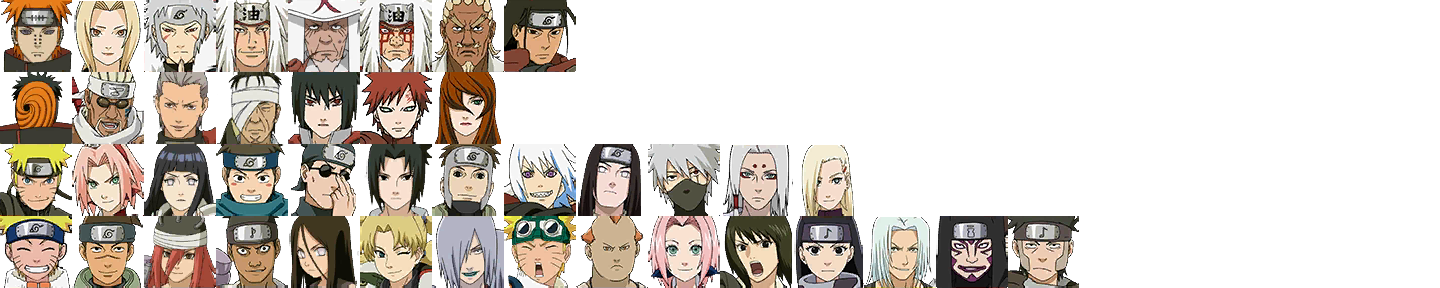
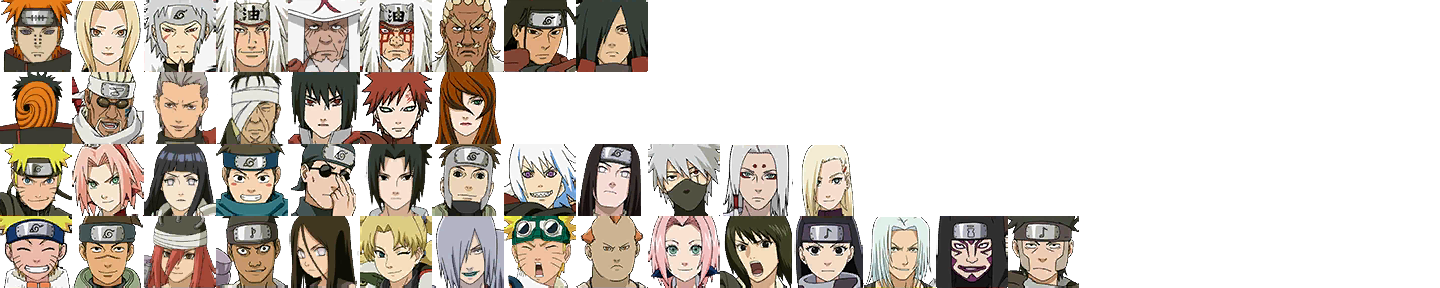
日更

Changed region(s): [[0.375, 0.0, 0.4688, 0.25]]

diff --git a/index.html b/index.html
@@ -3,9 +3,9 @@
 <html class="gray0">
 	<head>
 		<meta http-equiv="Content-Type" content="text/html; charset=UTF-8">
-		<title>高级招募模拟器-火影忍者手游</title>
+		<title>🐼高级招募模拟器-火影忍者手游</title>
 		<meta name="description" content="金币有限，高招看脸，究竟是欧皇？还是非酋？高级招募模拟器了解一下">
-		<meta name="keywords" content="火影忍者,手游,高级招募,欧皇,非酋,十连抽,高级招募模拟器,高招模拟器,模拟器,火影忍者高招模拟器,火影手游高招模拟器,火影高级招募模拟,火影抽卡模拟器" />
+		<meta name="keywords" content="火影忍者,手游,高级招募,欧皇,非酋,十连抽,高级招募模拟器,高招模拟器,模拟器,火影忍者高招模拟器,火影手游高招模拟器,火影高级招募模拟,火影手游模拟高招,火影抽卡模拟器,火影手游抽奖模拟,火影抽奖,火影手游抽奖" />
 		<meta itemprop="image" content="images/juanzhou_gaoji.png" />
 		<meta name="author" content="某熊" />
 		<meta http-equiv="pragma" content="no-cache">
@@ -17,7 +17,7 @@
 		<script type="text/javascript" src="js/jquery1.111.min.js"></script>
 		<script type="text/javascript" src="js/fastclick.js"></script>
 		<link rel="stylesheet" type="text/css" href="css/animate.min.css">
-		<link rel="stylesheet" type="text/css" href="css/style.css?v=111901">
+		<link rel="stylesheet" type="text/css" href="css/style.css?v=122601">
 		<script type="text/javascript" src="js/preload.js?v=111603"></script>
 	</head>
 
@@ -129,8 +129,8 @@
 					</dl>
 				</div>
 				<!--<p class="mb10">累计获得</p>-->
-                <!-- <p class="mb20"><em class="icon icon_s_new"><em class="img"></em><em class="fg"></em></em> × <span id="num_s_new">0</span></p> -->
-                <p class="mb20"><em class="icon icon_a_new"><em class="img"></em><em class="fg"></em></em> × <span id="num_a_new">0</span></p>
+                <p class="mb20"><em class="icon icon_s_new"><em class="img"></em><em class="fg"></em></em> × <span id="num_s_new">0</span></p>
+                <!-- <p class="mb20"><em class="icon icon_a_new"><em class="img"></em><em class="fg"></em></em> × <span id="num_a_new">0</span></p> -->
 				<p class="mb10"><i class="icon icon_s"></i>碎片：<span id="num_s">0</span></p>
 				<p class="mb10"><i class="icon icon_a"></i>碎片：<span id="num_a">0</span></p>
 				<p class="mb10"><i class="icon icon_b"></i>碎片：<span id="num_b">0</span></p>
@@ -146,8 +146,8 @@
 		<div class="thebtns thebtns_01">
         	<div class="btn btn_info ease1"><i class="icon icon_info"></i></div>
             <div class="btn btn_setting ease1"><i class="icon icon_setting"></i></div>
-            <!-- <div class="btn btn_baoxiang ease1 animated tada infinite"><i class="icon icon_baoxiang"></i><span class="txt">S首付奖励</span></div> -->
-			<div class="btn btn_baoxiang_a ease1 animated tada infinite"><i class="icon icon_baoxiang"></i><span class="txt">A首付奖励</span></div>
+            <div class="btn btn_baoxiang ease1 animated tada infinite"><i class="icon icon_baoxiang"></i><span class="txt">S首付奖励</span></div>
+			<!-- <div class="btn btn_baoxiang_a ease1 animated tada infinite"><i class="icon icon_baoxiang"></i><span class="txt">A首付奖励</span></div> -->
         </div>
 <!-- 右上角图标容器 第2列 -->
         <div class="thebtns thebtns_02">
@@ -158,23 +158,19 @@
 <!-- 弹窗遮罩 -->
 <div class="pop_mask"></div>
 <!-- 重要通知 -->
-		<div class="pop pop_big pop_notice animated zoomIn on">
+		<div class="pop pop_big pop_notice animated zoomIn">
 			<div class="title"><img class="title_bg" src="images/title_bg.png"><img class="title_txt" src="images/title_notice.png" alt="公告"></div>
 			<div class="text_wrap">
 				<div class="text_body">
 					<p><font color="#e94130"></font><font color="#6bd675"></font><!-- <i class="biaoqing biaoqing_07"></i> --></p>
-					<p>周末来啦，水影也来啦！再更新一波！</p>
+					<p></p>
 					<p><br></p>
 					<p><font color="#e94130">更新内容</font></p>
-					<p>1、音效开启！手机、电脑均已支持音效，可以在设置面板中开启或关闭</p>
-					<p>2、上架照美冥[五代目水影]、君麻吕、鬼童丸；下架宇智波佐助[万花筒写轮眼]、大和、漩涡鸣人[忍者学员]</p>
-					<p>3、如果集齐照美冥碎片会有小彩蛋</p>
+					<p>S级忍者碎片更新为宇智波斑！</p>
+					<p></p>
 					<p><br></p>
-                    <p>其他说明</p>
-                    <p>问卷调查已经关闭了，大家如果还有槽想吐，就来<a href="javascript:void(0);" class="jump_gzh" style="color: #e94130;" title="公众号">我的公众号</a>或者<a href="http://weibo.com/rune2010" style="color:#e94130;" title="微博" target="_blank">微博</a>吧！<i class="biaoqing biaoqing_07"></i></p>
-                    <p><br></p>
 					<p style="text-align: right;"><a href="http://weibo.com/rune2010" style="color:#111;" target="_blank">爱火影、爱游戏的某熊仔</a></p>
-					<p style="text-align: right;">2018年11月16日</p>
+					<p style="text-align: right;">2018年12月26日</p>
 					<p><br></p>
 					<div class="btns"><a href="http://weibo.com/rune2010" class="btn ease1" title="微博" target="_blank"><i class="icon icon_sina"></i>我是微博</a><a href="javascript:void(0);" class="btn ease1 jump_gzh" title="公众号"><i class="icon icon_weixin"></i>我是公众号</a></div>
 				</div>
@@ -199,6 +195,7 @@
 					<p style="text-align: right;"><a href="http://weibo.com/rune2010" style="color:#111;" target="_blank">爱火影、爱游戏的某熊仔</a></p>
 					<p style="text-align: right;">2018年5月</p>
 					<p><br></p>
+					<div class="btns"><a href="http://weibo.com/rune2010" class="btn ease1" title="微博" target="_blank"><i class="icon icon_sina"></i>我是微博</a><a href="javascript:void(0);" class="btn ease1 jump_gzh" title="公众号"><i class="icon icon_weixin"></i>我是公众号</a></div>
 					<p><br></p>
 					<p><br></p>
 				</div>
@@ -328,8 +325,8 @@
 <!-- 指引 -->
 		<!-- <div class="guide_wrap fadeInDown">
         	<div class="guide_small" style="right:.7rem; top:.7rem;"><em class="jiao"></em><div class="text_body">音效开关在这里！</div></div>
-        </div>
- --><!-- 恭喜 -->
+        </div> -->
+<!-- 恭喜 -->
 		<div class="congratulation_wrap"><span class="congratulation" id="congratulation"></span></div>
 <!-- toast -->
 		<div class="toast_wrap"><span class="toast" id="toast"></span></div>
@@ -337,7 +334,7 @@
 	</body>
 </html>
 <script type="text/javascript" src="js/howler.core.min.js"></script>
-<script type="text/javascript" src="js/custom.js?v=111902"></script>
+<script type="text/javascript" src="js/custom.js?v=122601"></script>
 
 
 <!-- 流量统计 -->

diff --git a/js/custom.js b/js/custom.js
@@ -116,7 +116,7 @@
 	// 背景音乐开关
 	// $("body").append("<audio id='bgm' preload='auto' loop='loop' src="+mid[0]+"></audio>");
 	// var bgm = $("#bgm")[0];
-	// bgmSprite.play('open2');
+	//bgmSprite.play('open2');
 	$(".btn_bgm").on("click",function(){
 			playaudio(2);
 		if($(this).hasClass("on")){
@@ -634,7 +634,7 @@ function A(){
 			$("#num_s").html(num_s);
 			num_s_new = num_s_new + num_this;
 			$("#num_s_new").html(num_s_new);
-			gongxi("#congratulation","恭喜你获得 <span>千手柱间碎片 × "+num_this+"</span>");
+			gongxi("#congratulation","恭喜你获得 <span>宇智波斑碎片 × "+num_this+"</span>");
 			sad = 0;
 			//return;
 		}else if(3.5 < raNum && raNum <= 15){
@@ -703,24 +703,24 @@ function A(){
 		showsad();
 		
 		//如果抽够50次会有A首付奖励出现
-		if(i>=50 && isaddsuipian_a == 0 ){
-			$(".btn_baoxiang_a").show(100);
-		}else{
-			$(".btn_baoxiang_a").hide(100);
-		}
+//		if(i>=50 && isaddsuipian_a == 0 ){
+//			$(".btn_baoxiang_a").show(100);
+//		}else{
+//			$(".btn_baoxiang_a").hide(100);
+//		}
 		//如果抽够100次会有S首付奖励出现
-		// if(i>=100 && isaddsuipian == 0 ){
-		// 	$(".btn_baoxiang").show(100);
-		// }else{
-		// 	$(".btn_baoxiang").hide(100);
-		// }
-		//如果照美冥碎片达到40 出现弹窗
-		if(num_a_new>=40 && istanchunewninja == 0 ){
-				playaudio(2);
-				gongxi("#congratulation","恭喜你成功招募 <span>照美冥[五代目水影]</span>");
-				$(".pop_newninja").addClass("on");
-				$(".pop_newninja").removeClass("zoomOut");
-				//$(".pop_mask").fadeIn(100);
-				istanchunewninja = 1;
+		if(i>=100 && isaddsuipian == 0 ){
+		 	$(".btn_baoxiang").show(100);
+		}else{
+		 	$(".btn_baoxiang").hide(100);
 		}
+		//如果照美冥碎片达到40 出现弹窗
+//		if(num_a_new>=40 && istanchunewninja == 0 ){
+//				playaudio(2);
+//				gongxi("#congratulation","恭喜你成功招募 <span>照美冥[五代目水影]</span>");
+//				$(".pop_newninja").addClass("on");
+//				$(".pop_newninja").removeClass("zoomOut");
+//				//$(".pop_mask").fadeIn(100);
+//				istanchunewninja = 1;
+//		}
 }

diff --git a/css/style.css b/css/style.css
@@ -342,7 +342,7 @@ filter: brightness(1.2); }
 .icon.icon_a_new .img{ background-image:url(../images/charactors.png); background-size: 14.40rem 2.88rem; }
 .resultlist .item_s .img{  background-position: 0 0; }
 .resultlist .item_s .img1,
-.icon.icon_s_new .img{ background-position: -5.04rem 0;  }/*1,8  当前s忍者（千手柱间）*/
+.icon.icon_s_new .img{ background-position: -5.76rem 0;  }/*1,9  当前s忍者（宇智波斑）*/
 .resultlist .item_a .img{  background-position: 0rem -.72rem; }
 .resultlist .item_a .img1,
 .icon.icon_a_new .img{  background-position: -4.32rem -.72rem; }/*2,7 当前新a忍者（照美冥）*/

diff --git a/500.html b/500.html
@@ -58,7 +58,7 @@ a:hover{ color:#111}
 <img src="images/5_b.png"><img src="images/0_b.png"><img src="images/0_b.png">
 <br />
 <br />
-<div class="text_body">不要问我从哪里来，我的故乡在<a href="/">这里</a></div>
+<div class="text_body">糟糕迷路了，<a href="/">返回起点</a></div>
 </div>
 </body>
 </html>

diff --git a/403.html b/403.html
@@ -58,7 +58,7 @@ a:hover{ color:#111}
 <img src="images/4_b.png"><img src="images/0_b.png"><img src="images/3_b.png">
 <br />
 <br />
-<div class="text_body">糟糕迷路了，<a href="/">原路返回</a></div>
+<div class="text_body">糟糕迷路了，<a href="/">返回起点</a></div>
 </div>
 </body>
 </html>

diff --git a/404.html b/404.html
@@ -58,7 +58,7 @@ a:hover{ color:#111}
 <img src="images/4_b.png"><img src="images/0_b.png"><img src="images/4_b.png">
 <br />
 <br />
-<div class="text_body">糟糕迷路了，<a href="/">原路返回</a></div>
+<div class="text_body">糟糕迷路了，<a href="/">返回起点</a></div>
 </div>
 </body>
 </html>

diff --git a/ninjashare.html b/ninjashare.html
@@ -58,7 +58,7 @@ a:hover{ color:#111}
 <img src="images/4_b.png"><img src="images/0_b.png"><img src="images/4_b.png">
 <br />
 <br />
-<div class="text_body">糟糕迷路了，<a href="/">原路返回</a></div>
+<div class="text_body">糟糕迷路了，<a href="/">返回起点</a></div>
 </div>
 </body>
 </html>

diff --git a/README.md b/README.md
@@ -5,62 +5,76 @@
 ### 更新日志
 
 
+##### 版本v1.6
+日期：20181116
+1. 音效开启！手机、电脑均已支持音效，可以在设置面板中开启或关闭
+2. 上架照美冥[五代目水影]、君麻吕、鬼童丸；下架宇智波佐助[万花筒写轮眼]、大和、漩涡鸣人[忍者学员]
+3. 如果集齐照美冥碎片会有小彩蛋
+
+
+##### 版本v1.5.3
+日期：20181115
+1. 更新11月高招A忍五代目水影照美冥
+2. 修复抽到A忍碎片，偶尔没有增加数量的bug
+3. 再次略微减少十连耗时
+
+
 ##### 版本v1.5.2
-	日期：20180717
-	1、优化首付奖励外观，修正重复领取的bug
-	2、略微减少十连耗时
+日期：20180717
+1. 优化首付奖励外观，修正重复领取的bug
+2. 略微减少十连耗时
 
 
 ##### 小小服务器不堪重负，削弱界面
-	日期：20180716
-	1、取消加载字体包
-	2、取消音效包
-	3、暂时下线“新忍者分享图生成工具”
+日期：20180716
+1. 取消加载字体包
+2. 取消音效包
+3. 暂时下线“新忍者分享图生成工具”
 
 
 ##### 版本v1.5.1
-	日期：20180713
-	1、增加新A首付奖励，累计抽满50次才会出现
-	2、数据统计增加新A碎片数量显示
+日期：20180713
+1. 增加新A首付奖励，累计抽满50次才会出现
+2. 数据统计增加新A碎片数量显示
 
 
 ##### 新忍者分享图生成工具
-	日期：20180704
-	1、虽然没有招募到新忍者，但是我可以假装有啊，新忍者分享图生成工具来袭
+日期：20180704
+1. 虽然没有招募到新忍者，但是我可以假装有啊，新忍者分享图生成工具来袭
 
 
 ##### 版本v1.5
-	日期：20180518
-	1、增加首付奖励，累计抽满100次才会出现
+日期：20180518
+1. 增加首付奖励，累计抽满100次才会出现
 
 
 ##### 版本v1.4.1
-	日期：20180516
-	1、为增强体验，在开启或关闭10次必得S碎片时，自动重置数据
-	2、新增脸黑反馈开关，哈哈~可能会有部分浏览器不支持
+日期：20180516
+1. 为增强体验，在开启或关闭10次必得S碎片时，自动重置数据
+2. 新增脸黑反馈开关，哈哈~可能会有部分浏览器不支持
 
 
 ##### 版本v1.4
-	日期：20180516
-	1、新增每招募10次必得S碎片功能
-	2、新增设置弹窗，优化整合可设置项目
-	3、新增恭喜获得S碎片提示文字
+日期：20180516
+1. 新增每招募10次必得S碎片功能
+2. 新增设置弹窗，优化整合可设置项目
+3. 新增恭喜获得S碎片提示文字
 
 
 ##### 版本v1.3
-	日期：20180512
-	1、新增音效，目前暂时仅支持电脑端开启
+日期：20180512
+1. 新增音效，目前暂时仅支持电脑端开启
 
 
 ##### 版本v1.2
-	日期：20180511
-	1、优化碎片浮现小动画，使更接近游戏中的效果
-	2、调整页面字体，使更接近游戏中的效果
-	3、优化页面图形图像尺寸
+日期：20180511
+1. 优化碎片浮现小动画，使更接近游戏中的效果
+2. 调整页面字体，使更接近游戏中的效果
+3. 优化页面图形图像尺寸
 
 
 ##### 版本v1.1
-	日期：20180510
-	1、新增公告弹窗
-	2、适配不同分辨率及竖屏横屏浏览体验
-	3、新增加载界面，优化体验
+日期：20180510
+1. 新增公告弹窗
+2. 适配不同分辨率及竖屏横屏浏览体验
+3. 新增加载界面，优化体验
